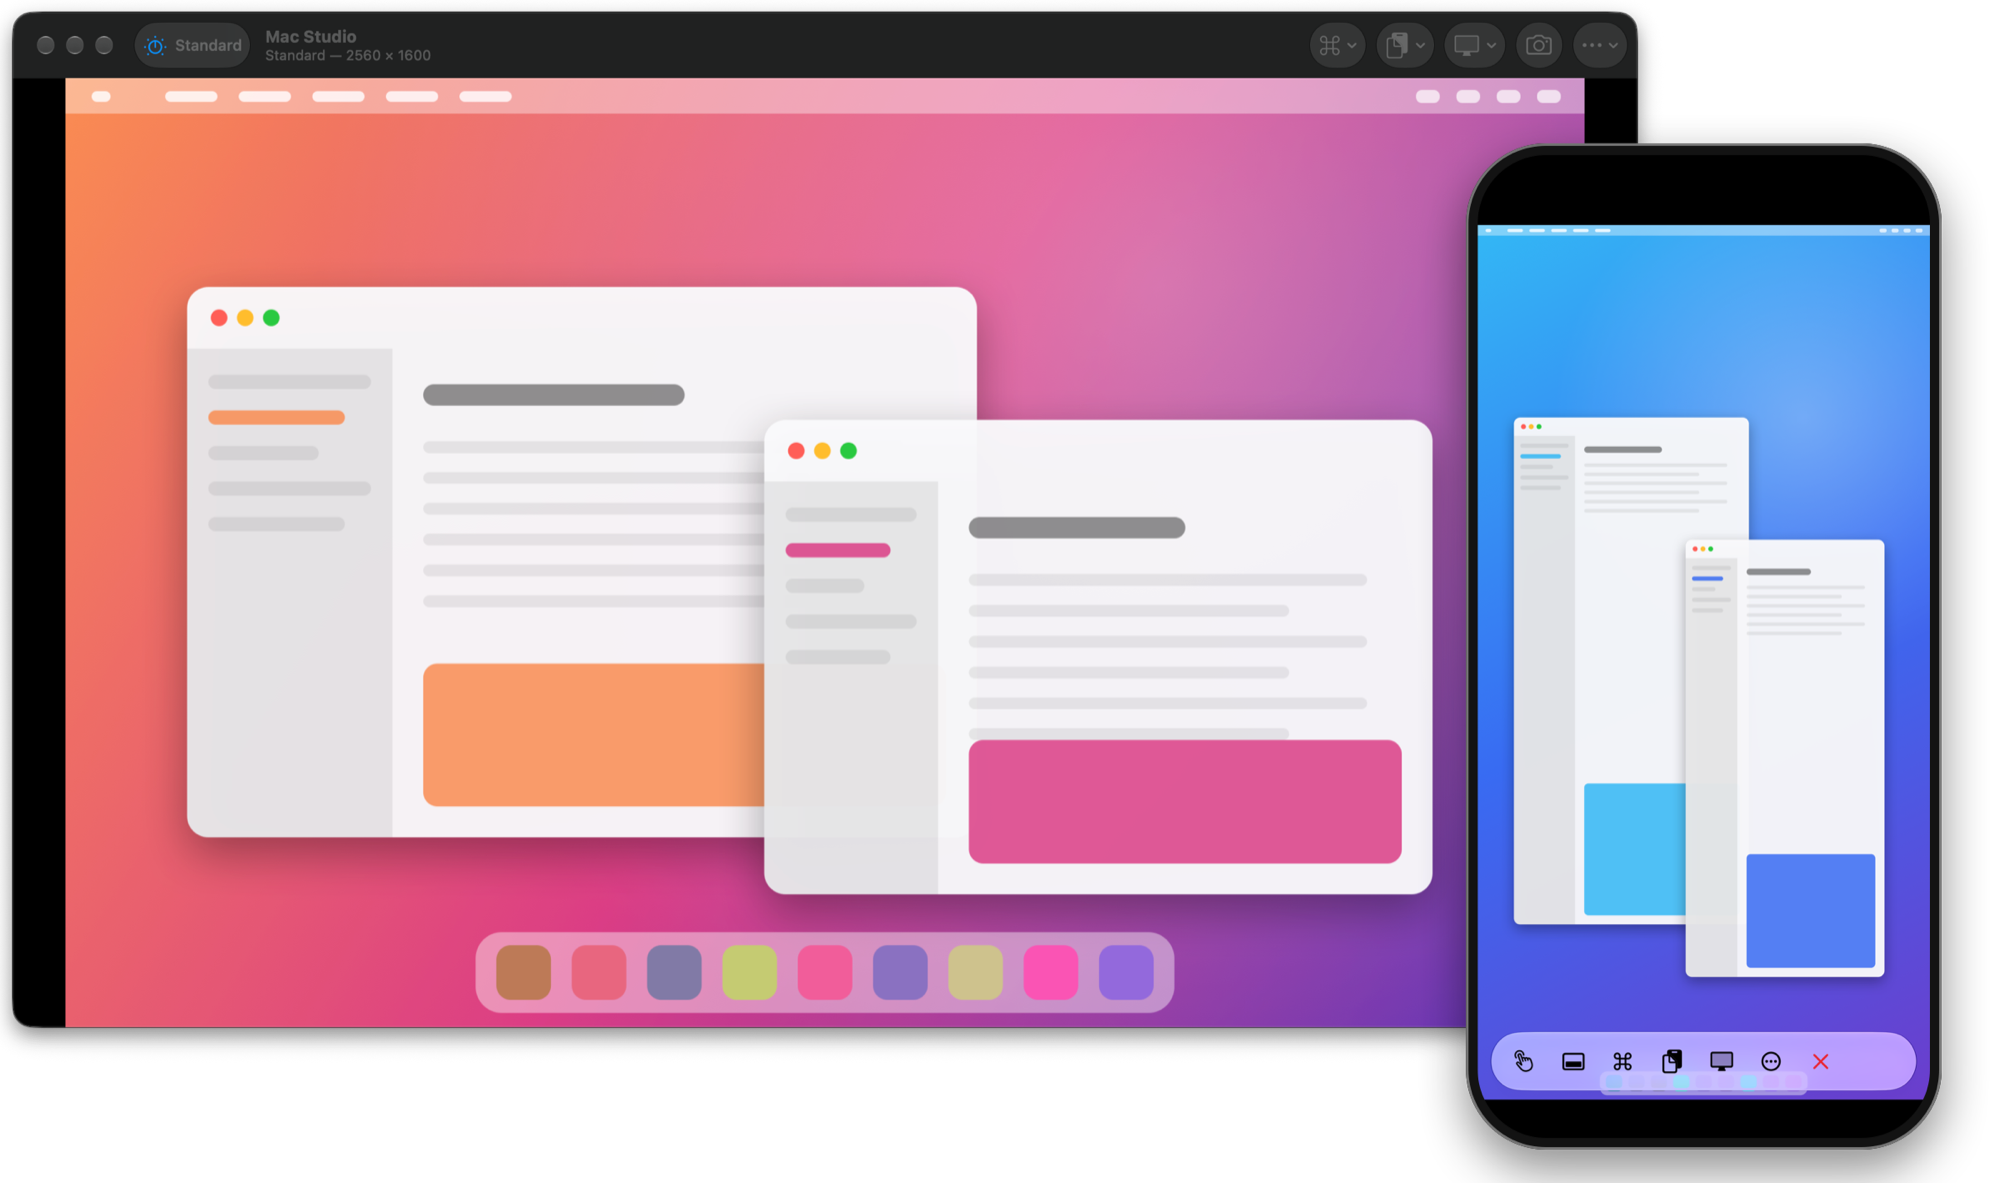
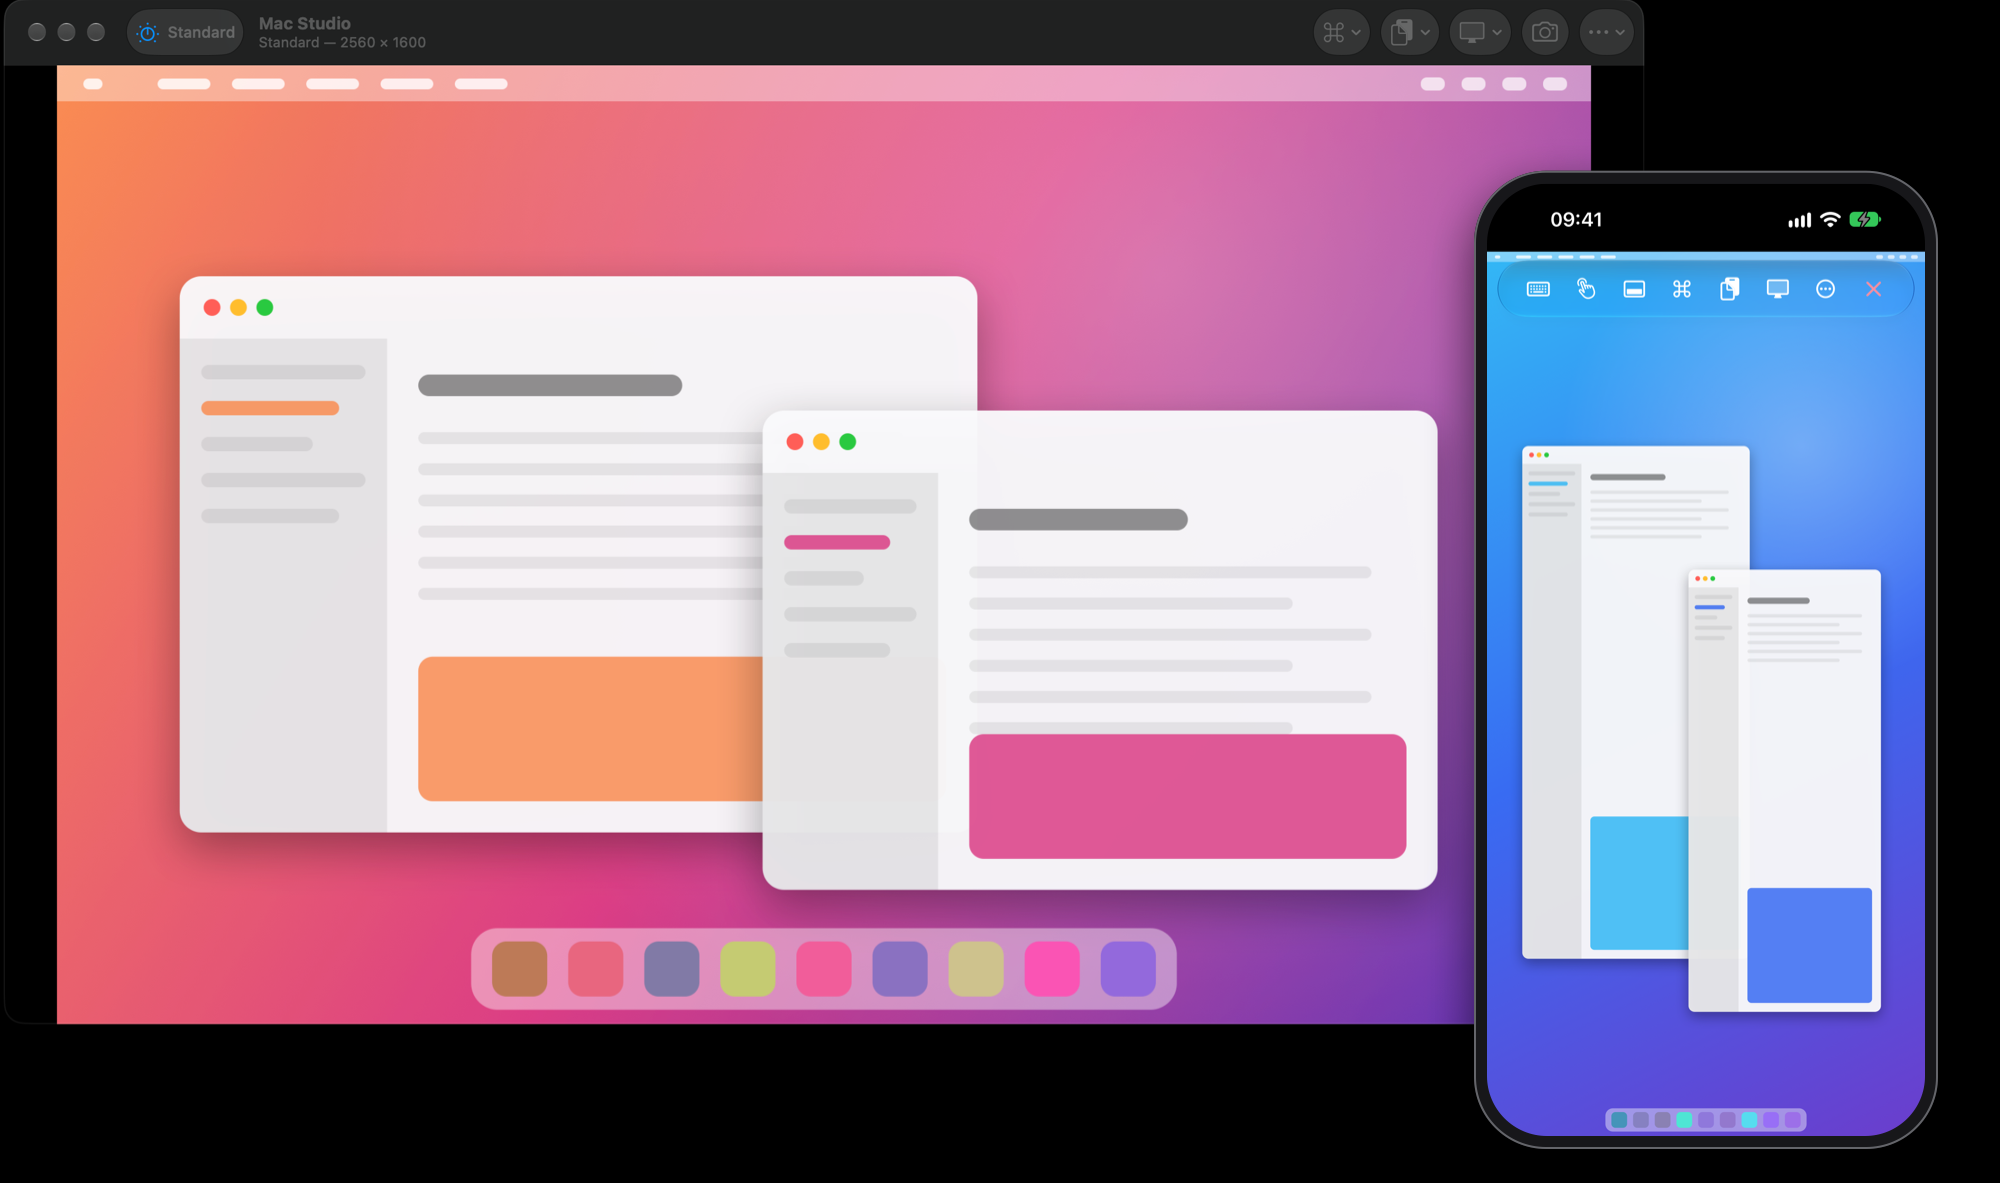
Version 1.1.0
The changelog, the README and the architecture notes say what changed
for iPhone and iPad, and the pictures show the session as it now is.

diff --git a/CHANGELOG.md b/CHANGELOG.md
@@ -3,6 +3,38 @@
 Notable changes to OpenScreens. Versions follow
 [Semantic Versioning](https://semver.org).
 
+## 1.1.0
+
+A release for iPhone and iPad, after the first use on real devices.
+
+- **A desktop sized for the screen it is shown on.** A phone held upright
+  was given a desktop 1024 points wide: text at two fifths of its size and
+  about eight megapixels to send, the most a Mac will send at 60 frames a
+  second. It now gets one 720 points wide, with about half the pixels and
+  text half as large again. "More Space on Small Screens" brings the wider
+  desktop back.
+- **The picture fills the screen.** It goes down to the bottom edge instead
+  of stopping above the home indicator, and starts just below where a
+  screen's rounded corners would cut into the Mac's menu bar.
+- **Controls that keep out of the way.** They no longer float over the
+  Dock. Where a screen has a strip the picture cannot use, down the side of
+  an iPhone Duo's cover display or of any iPhone on its side, they stand
+  there, always in view. Anywhere else they come out of the top and are put
+  away to a small handle as soon as the remote screen is touched. They can
+  be moved to the bottom, or kept in view.
+- **Typing without losing sight of the screen.** A keyboard or the trackpad
+  deck used to shrink the picture to what was left above it. The picture now
+  keeps its size and slides up to show where the pointer is.
+- The trackpad deck comes out by itself only on a foldable set down like a
+  laptop, not whenever it is held with a slight bend, and can be put away
+  then too.
+- The status bar is shown beside a sensor housing, instead of that space
+  being left black.
+- iPhone presents frames at the display's full refresh rate.
+- The statistics say whether video is decoded in hardware.
+- A Mac that will not make a desktop as small as it is asked for is noticed,
+  and asked for the size every Mac gives.
+
 ## 1.0.0
 
 The first release, for macOS 26, iOS 26 and iPadOS 26.

diff --git a/docs/ARCHITECTURE.md b/docs/ARCHITECTURE.md
@@ -42,7 +42,7 @@ what makes it testable:
 | `Discovery`, `Tailscale` | Finding computers: Bonjour through dns_sd, and the tailnet through Tailscale's API or local app. |
 | `SSH` | Client, tunnel, SFTP, private keys, known hosts. Built on SwiftNIO SSH. |
 | `Input` | Keysyms, key codes, and `HardwareKeyboard`, which decides what a key press means to the remote computer. |
-| `Geometry` | `Viewport`: fit, fill, zoom, pan, and mapping a point in the view to a point of the picture. `DisplayArrangement`: where two displays go in the picture, and which remote pixel a point of it stands for. |
+| `Geometry` | `Viewport`: fit, fill, zoom, pan, and mapping a point in the view to a point of the picture. `DisplayArrangement`: where two displays go in the picture, and which remote pixel a point of it stands for. `SessionChromeLayout`: where the picture and the controls go on a touch screen, from what the screen keeps content clear of. |
 | `Network` | Address parsing, links, Wake-on-LAN. |
 
 **OpenScreensUI** is the app:
@@ -75,7 +75,11 @@ what makes it testable:
    then makes its connection through that instead of dialling itself.
 3. The canvas reports its size, and for a desktop that follows the window the
    engine asks the Mac for a virtual display of that size — or two, each half
-   of it.
+   of it. A view smaller than a Mac's screen gets a desktop of its shape,
+   scaled up to a minimum the computer's settings choose: 720 points across
+   by default, 1024 for more space. A Mac does not say when it will not make
+   a display that small, so once the resize has settled the session checks
+   what it was given.
 4. Pointer events are mapped through `Viewport` to the picture and through
    `DisplayArrangement` to remote pixels. Key events go through
    `HardwareKeyboard`.

diff --git a/README.md b/README.md
@@ -26,7 +26,9 @@ VNC.
 
 - **High Performance mode** for Apple silicon Macs: HEVC video at up to 60
   frames a second, the remote Mac's sound, and a desktop created at the size
-  of your window or screen — a phone held upright gets an upright desktop.
+  of your window or screen. A phone held upright gets an upright desktop
+  made for a phone, with text large enough to read and no more pixels than
+  it can show; ask for more space when you want the room instead.
 - **One display, all of them side by side, or two virtual displays** of your
   own, which share the window: beside each other when it is wide, one above
   the other on a phone held upright.
@@ -47,6 +49,11 @@ VNC.
   a trackpad. Two-finger scrolling with momentum, pinch to zoom, right-click
   and drag gestures, a key bar for modifiers, arrows and function keys, and
   full support for hardware keyboards, trackpads, mice and Apple Pencil.
+- The picture has the screen to itself. The controls stand beside it where
+  the screen has a strip to spare — the cover display of an iPhone Duo, any
+  iPhone on its side — and elsewhere go away to a small handle the moment
+  you touch the remote screen. A keyboard slides the picture up instead of
+  shrinking it.
 - Shortcuts in one tap — Mission Control, Spotlight, Control-Alt-Delete — and
   your own. Type Text sends a whole paragraph as keystrokes.
 
